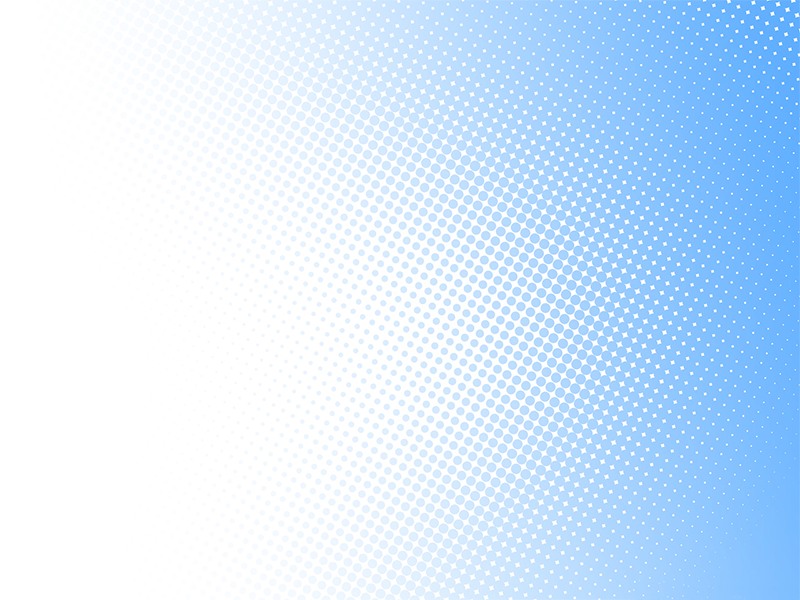
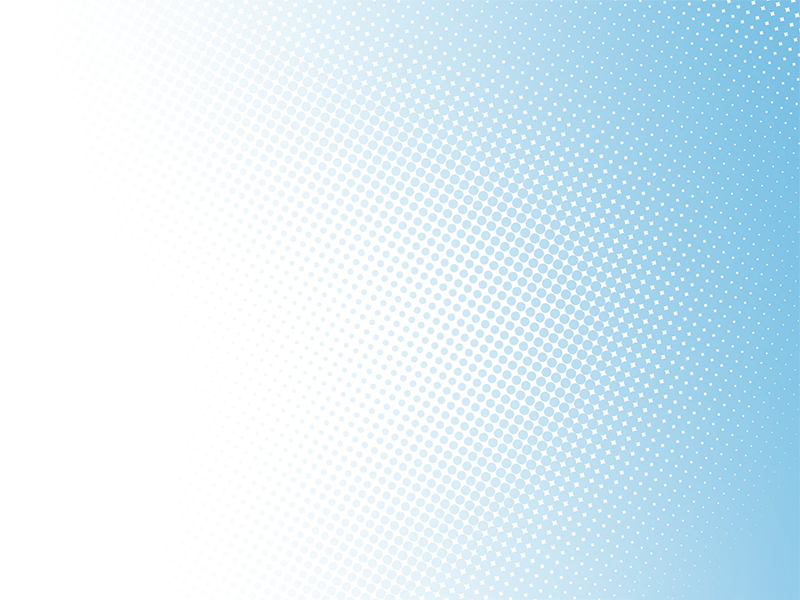
Add dotenv, fix background animation

Changed region(s): [[0.875, 0.0, 1.0, 0.63]]

diff --git a/static/css/main.css b/static/css/main.css
@@ -124,10 +124,10 @@ $passive-color: #282828;
 $bg-url: url(../../static/images/bg-dark.jpg);
 $create-room-bg-url: #222222;
 */
-@keyframes animatedBackground { from { background-position: 0% 100%; }
-  to { background-position: 100% 100%; } }
+@keyframes animatedBackground { from { background-position: 0 100%; }
+  to { background-position: 560px 100%; } }
 
-.lobbyView { width: 100%; height: 100%; display: flex; flex-wrap: nowrap; justify-content: space-between; align-items: center; transition: 1s; text-align: center; font-size: 20px; transition: 1.5s; background: url(../../static/images/bgclouds.png); background-position: 0% 100%; background-repeat: repeat-x; animation: animatedBackground 60s linear infinite; }
+.lobbyView { width: 100%; height: 100%; display: flex; flex-wrap: nowrap; justify-content: space-between; align-items: center; text-align: center; font-size: 20px; transition: 1.5s; background: url(../../static/images/bgclouds.png); background-position: 0% 100%; background-repeat: repeat-x; animation: animatedBackground 20s linear infinite; }
 
 /*
 primary-color: text color

diff --git a/app/sass/lobby.scss b/app/sass/lobby.scss
@@ -1,8 +1,8 @@
 @import "variables";
 
 @keyframes animatedBackground{
-	from { background-position: 0% 100%; }
-	to { background-position: 100% 100%; }
+	from { background-position: 0 100%; }
+	to { background-position: 560px 100%; }
 }
 
 .lobbyView{
@@ -12,14 +12,13 @@
 	flex-wrap: nowrap;
 	justify-content: space-between;
 	align-items: center;
-	transition: $transition-fast;
 	text-align: center;
 	font-size: 20px;
 	transition: $transition-speed;
 	background: $bg-url;
 	background-position: 0% 100%;
 	background-repeat: repeat-x;
-	animation: animatedBackground 60s linear infinite;
+	animation: animatedBackground 20s linear infinite;
 }
 
 

diff --git a/entry.js b/entry.js
@@ -1,4 +1,5 @@
 "use strict"
+require("dotenv").config()
 
 var express = require("express");
 var server = express();
@@ -16,6 +17,8 @@ server.get("/", function(req, res){
 
 initSocket(io, mem);
 
-http.listen(3000, function(){
-	console.log("Server started on port 3000");
+var port = process.env.PORT || 8080;
+
+http.listen(port, function(){
+	console.log(`Server started on port ${port}`);
 });

diff --git a/server/initializeState.js b/server/initializeState.js
@@ -1,4 +1,4 @@
-var Backbone = require("Backbone");
+var Backbone = require("backbone");
 var RoomsController = require("./controllers/roomsController");
 var UsersController = require("./controllers/usersController");
 var ChatController = require("./controllers/chatController");
